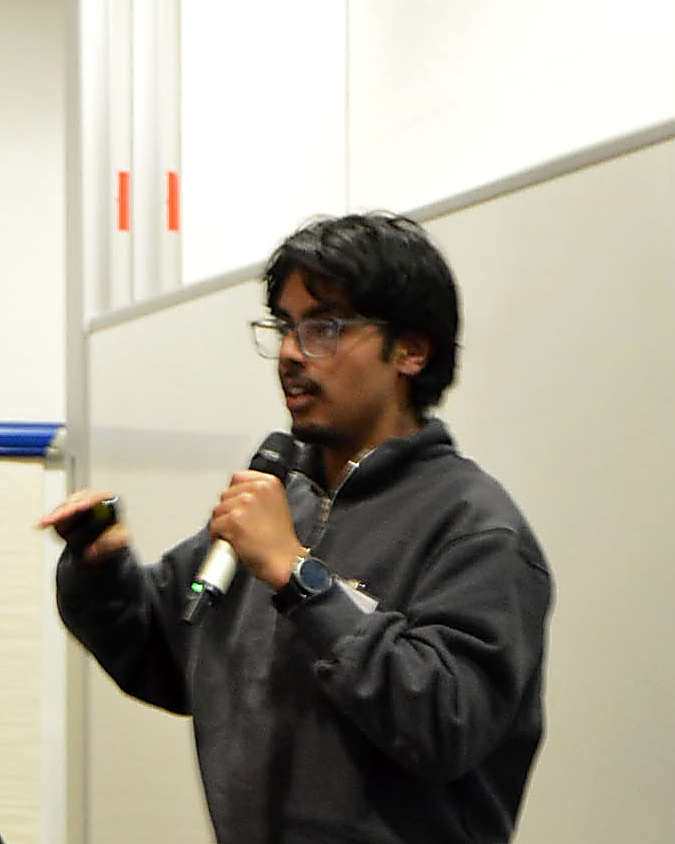
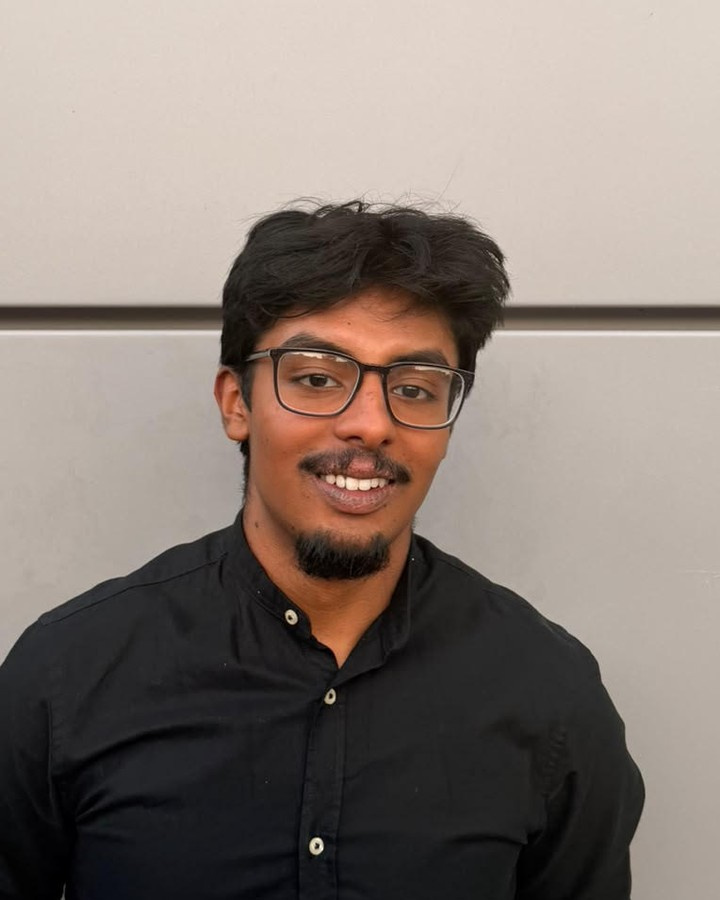
fix(v8.6): all three portraits grey again, and a new photograph for Prithvish
Two owner instructions straight after the v8.5 deploy.

Alexandros's portrait goes back to grayscale. The .photo-live class that
carried the one-portrait colour exception is deleted rather than left on the
shelf; it is at dd0e31f, and the reason it existed is worth keeping in mind:
making a single photograph colour by simply dropping .photo-bw takes the hover
zoom with it, and one portrait out of three that does not move under the cursor
reads as a bug rather than as a decision.

prithvish-patil.jpg/.webp replaced with a photograph the owner supplied. The
source is a standing shot with the subject small in the middle of a 1536x2048
frame, so it needed a real crop: composed for the CIRCLE rather than for the
4:5, since the round frame only ever shows the centre square. Head is about 55%
of the disc's height and the eye line about 40% down it, giving a 764px square
cut at (360,704) and reduced to 720x900. Checked as a masked disc in both
colour and grey. Still a colour file, so the hover reveal still has something
to lift. Alt text unchanged - it never described the setting.

Stylesheet to ?v=8.6.

diff --git a/about/index.html b/about/index.html
@@ -23,7 +23,7 @@
   <meta name="twitter:card" content="summary_large_image" />
 
   <link rel="icon" href="../favicon.svg" type="image/svg+xml" />
-  <link rel="stylesheet" href="../styles.css?v=8.5" />
+  <link rel="stylesheet" href="../styles.css?v=8.6" />
 
   <script type="application/ld+json">
   {
@@ -115,10 +115,13 @@
          conversion moved to .photo-bw in styles.css. Do not re-grade these
          files to monochrome: it would make the hover reveal do nothing.
 
-         ALEXANDROS'S PORTRAIT IS THE EXCEPTION: owner instruction of the same
-         day, it is shown in COLOUR. It carries .photo-live rather than
-         .photo-bw, which keeps the hover zoom and drops the grayscale filter.
-         It is not a different file and the file was not re-graded.
+         ALL THREE ARE GREY AGAIN. Alexandros's portrait was shown in colour
+         for one revision on 2026-08-03 and the owner reversed it the same
+         session. The .photo-live class that carried the exception is deleted
+         rather than left on the shelf. If a single portrait is ever wanted in
+         colour again, bring that class back from git: dropping .photo-bw and
+         adding nothing takes the hover zoom with it, and one portrait out of
+         three that does not answer the cursor reads as a bug.
 
          Every biographical detail below comes from each founder's own LinkedIn
          plus the owner's corrections, and the wording of all three remits is
@@ -137,9 +140,18 @@
 
          The name-to-face mapping was ASKED, never inferred:
            kevin-kegel             <- the curly-haired headshot
-           prithvish-patil         <- the presenting photograph
+           prithvish-patil         <- REPLACED 2026-08-03, see below
            alexandros-moschopoulos <- the gold-glasses headshot
          Do not reassign a file to a different person on a hunch.
+
+         prithvish-patil.jpg/.webp were the photograph of him speaking into a
+         microphone. The owner supplied a replacement the same session: a
+         standing shot against a tiled wall, 1536x2048, with the subject small
+         in the middle of the frame. It was cut to the 4:5 the other two use,
+         composed for the CIRCLE rather than for the rectangle - head about 55%
+         of the disc's height, eye line about 40% down it - and reduced to
+         720x900. The alt text is unchanged because it never described the
+         setting. The original is Downloads/unnamed.jpg.
 
          Each file is cropped 4:5 around the face; the round frame takes a
          square out of the middle of that, so a face that is not centred will
@@ -172,7 +184,7 @@
             <figure class="tphoto photo-bw">
               <picture>
                 <source srcset="../assets/img/team/prithvish-patil.webp" type="image/webp" />
-                <img src="../assets/img/team/prithvish-patil.jpg" width="675" height="844"
+                <img src="../assets/img/team/prithvish-patil.jpg" width="720" height="900"
                      loading="lazy" alt="Prithvish Patil." />
               </picture>
             </figure>
@@ -183,10 +195,8 @@
             </div>
           </article>
 
-          <!-- COLOUR, not grayscale: .photo-live instead of .photo-bw. Owner
-               instruction 2026-08-03, and the only portrait it applies to. -->
           <article class="tperson" data-animate data-anim-delay="160">
-            <figure class="tphoto photo-live">
+            <figure class="tphoto photo-bw">
               <picture>
                 <source srcset="../assets/img/team/alexandros-moschopoulos.webp" type="image/webp" />
                 <img src="../assets/img/team/alexandros-moschopoulos.jpg" width="900" height="1125"

diff --git a/styles.css b/styles.css
@@ -702,10 +702,10 @@ a.vcard:hover .draw img { transform: scale(1.04); }
    photograph in this set was rebuilt IN COLOUR from the original camera file
    and the conversion moved here into .photo-bw.
 
-   Applies to two of the three portraits and to the three city pictures in the
-   markets block. Alexandros's portrait is in COLOUR from 2026-08-03 by owner
-   instruction and carries .photo-live instead; the group photograph it also
-   used to cover is no longer on the page.
+   Applies to all three portraits and to the three city pictures in the markets
+   block. Alexandros's was shown in colour for one revision on 2026-08-03, on a
+   .photo-live class; the owner reversed it the same session and that class is
+   deleted. The group photograph this also used to cover is off the page.
 
    Hover is a progressive nicety, never the only way to see something: the
    pictures are legible in grayscale and no alt text depends on colour. A
@@ -735,31 +735,18 @@ a.vcard:hover .draw img { transform: scale(1.04); }
   transform: scale(1.03);
 }
 
-/* A PHOTOGRAPH THAT IS ALREADY IN COLOUR. Owner instruction 2026-08-03, and
-   Alexandros's portrait is the only thing wearing it. It exists so that the
-   one colour picture still answers a pointer the same way its neighbours do:
-   same 1.03 zoom, same easing, same whole-card hit area. There is simply no
-   grayscale left for it to lift.
-
-   Do NOT do this by dropping .photo-bw and adding nothing. That silently
-   removes the zoom as well, and one portrait out of three that does not move
-   under the cursor reads as a bug rather than as a decision. */
-.photo-live img {
-  transform: scale(1.001);
-  transition: transform 420ms ease;
-}
-.photo-live:hover img,
-.photo-live:focus-within img,
-.tperson:hover .photo-live img,
-.tperson:focus-within .photo-live img { transform: scale(1.03); }
-
+/* .photo-live is DELETED. It existed for one revision on 2026-08-03, to show
+   Alexandros's portrait in colour while keeping the hover zoom its neighbours
+   have, and the owner reversed that instruction the same session. Recoverable
+   at dd0e31f. The reason it existed is still worth knowing: making a single
+   photograph colour by simply dropping .photo-bw removes the zoom with it, and
+   one portrait out of three that does not move under the cursor reads as a bug
+   rather than as a decision. */
 @media (prefers-reduced-motion: reduce) {
   .photo-bw img { transition: filter 260ms ease; }
   .photo-bw:hover img, .photo-bw:focus-within img,
   .tperson:hover .photo-bw img, .tperson:focus-within .photo-bw img,
-  .market:hover .photo-bw img, .market:focus-within .photo-bw img,
-  .photo-live:hover img, .photo-live:focus-within img,
-  .tperson:hover .photo-live img, .tperson:focus-within .photo-live img {
+  .market:hover .photo-bw img, .market:focus-within .photo-bw img {
     transform: scale(1.001);
   }
 }

diff --git a/404.html b/404.html
@@ -8,7 +8,7 @@
   <meta name="description" content="That page does not exist on the Sillage website." />
   <meta name="robots" content="noindex,follow" />
   <link rel="icon" href="favicon.svg" type="image/svg+xml" />
-  <link rel="stylesheet" href="styles.css?v=8.5" />
+  <link rel="stylesheet" href="styles.css?v=8.6" />
   <!-- GitHub Pages serves this automatically. Apache needs one line in
        the deployed .htaccess: ErrorDocument 404 /404.html
 

diff --git a/venues/business-premises/index.html b/venues/business-premises/index.html
@@ -23,7 +23,7 @@
   <meta name="twitter:card" content="summary_large_image" />
 
   <link rel="icon" href="../../favicon.svg" type="image/svg+xml" />
-  <link rel="stylesheet" href="../../styles.css?v=8.5" />
+  <link rel="stylesheet" href="../../styles.css?v=8.6" />
 
   <!-- ============================================================
        VENUE PAGE. PUBLISHED 2026-08-02 at the owner's instruction.

diff --git a/venues/personal-care/index.html b/venues/personal-care/index.html
@@ -23,7 +23,7 @@
   <meta name="twitter:card" content="summary_large_image" />
 
   <link rel="icon" href="../../favicon.svg" type="image/svg+xml" />
-  <link rel="stylesheet" href="../../styles.css?v=8.5" />
+  <link rel="stylesheet" href="../../styles.css?v=8.6" />
 
   <!-- ============================================================
        VENUE PAGE. PUBLISHED 2026-08-02 at the owner's instruction.

diff --git a/venues/wellness/index.html b/venues/wellness/index.html
@@ -23,7 +23,7 @@
   <meta name="twitter:card" content="summary_large_image" />
 
   <link rel="icon" href="../../favicon.svg" type="image/svg+xml" />
-  <link rel="stylesheet" href="../../styles.css?v=8.5" />
+  <link rel="stylesheet" href="../../styles.css?v=8.6" />
 
   <!-- ============================================================
        VENUE PAGE. PUBLISHED 2026-08-02 at the owner's instruction.

diff --git a/privacy/index.html b/privacy/index.html
@@ -15,7 +15,7 @@
   <meta name="robots" content="index,follow" />
   <link rel="canonical" href="https://www.seeyazh.com/privacy/" />
   <link rel="icon" href="../favicon.svg" type="image/svg+xml" />
-  <link rel="stylesheet" href="../styles.css?v=8.5" />
+  <link rel="stylesheet" href="../styles.css?v=8.6" />
 </head>
 <body>
   <a class="skip-link" href="#main">Skip to content</a>

diff --git a/markets.html b/markets.html
@@ -16,7 +16,7 @@
   <meta http-equiv="refresh" content="0; url=about/#markets" />
   <title>Where we work, moved to About &middot; Sillage</title>
   <link rel="icon" href="favicon.svg" type="image/svg+xml" />
-  <link rel="stylesheet" href="styles.css?v=8.5" />
+  <link rel="stylesheet" href="styles.css?v=8.6" />
 </head>
 <body>
   <main id="main" class="doc">

diff --git a/contact.html b/contact.html
@@ -14,7 +14,7 @@
   <meta http-equiv="refresh" content="0; url=about/#contact" />
   <title>Contact, moved to About &middot; Sillage</title>
   <link rel="icon" href="favicon.svg" type="image/svg+xml" />
-  <link rel="stylesheet" href="styles.css?v=8.5" />
+  <link rel="stylesheet" href="styles.css?v=8.6" />
 </head>
 <body>
   <main id="main" class="doc">

diff --git a/privacy.html b/privacy.html
@@ -17,7 +17,7 @@
   <meta http-equiv="refresh" content="0; url=privacy/" />
   <title>Privacy, moved &middot; Sillage</title>
   <link rel="icon" href="favicon.svg" type="image/svg+xml" />
-  <link rel="stylesheet" href="styles.css?v=8.5" />
+  <link rel="stylesheet" href="styles.css?v=8.6" />
 </head>
 <body>
   <main id="main" class="doc">

diff --git a/about.html b/about.html
@@ -17,7 +17,7 @@
   <meta http-equiv="refresh" content="0; url=about/" />
   <title>About, moved &middot; Sillage</title>
   <link rel="icon" href="favicon.svg" type="image/svg+xml" />
-  <link rel="stylesheet" href="styles.css?v=8.5" />
+  <link rel="stylesheet" href="styles.css?v=8.6" />
 </head>
 <body>
   <main id="main" class="doc">

diff --git a/home/index.html b/home/index.html
@@ -18,7 +18,7 @@
   <meta http-equiv="refresh" content="0; url=../" />
   <title>Home &middot; Sillage</title>
   <link rel="icon" href="../favicon.svg" type="image/svg+xml" />
-  <link rel="stylesheet" href="../styles.css?v=8.5" />
+  <link rel="stylesheet" href="../styles.css?v=8.6" />
 </head>
 <body>
   <main id="main" class="doc">
